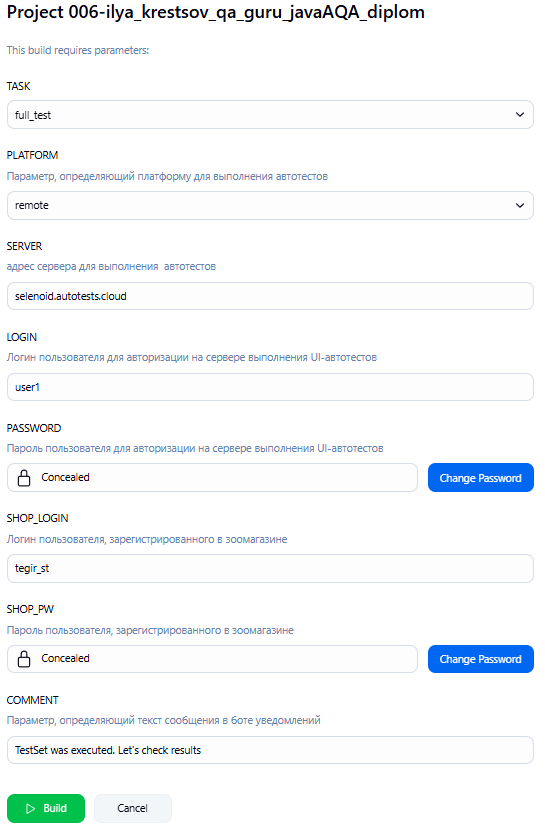
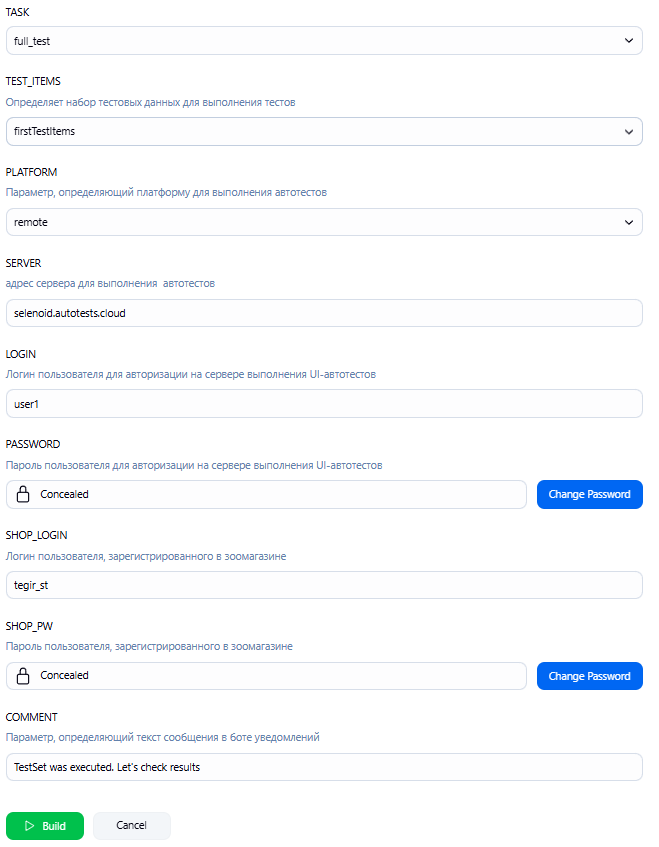
Autoformat new method putItemToCart with quantity new way to assert for quantity in cart version in configs small corrections in README

diff --git a/src/test/java/uitests/UIBaseTest.java b/src/test/java/uitests/UIBaseTest.java
@@ -31,7 +31,7 @@ public class UIBaseTest {
 
         Configuration.browser = config.getBrowserName();
         System.out.println(config.getBrowserName());
-        //Configuration.browserVersion = config.getBrowserVersion();
+        Configuration.browserVersion = config.getBrowserVersion();
         Configuration.browserSize = config.getBrowserSize();
         Configuration.remote = config.getServerAddress();
 
@@ -44,9 +44,9 @@ public class UIBaseTest {
 
 
         AuthDataModel authDataModel = new AuthDataModel(Map.of(
-                "login",config.getShopLogin(),
-                "password",config.getShopPassword(),
-                "from_page","/"
+                "login", config.getShopLogin(),
+                "password", config.getShopPassword(),
+                "from_page", "/"
         ));
 
         AuthDataStorage.getInstance();

diff --git a/src/test/java/uitests/UITests.java b/src/test/java/uitests/UITests.java
@@ -45,15 +45,15 @@ public class UITests extends UIBaseTest {
     @Test
     @Tag("CartTests")
     public void addingTwoItemsToCartMustDisplayNumberOfItemsInCartTest() {
+        int quantity = (int) (Math.random() * 2) + 2;
 
         apiClient.receiveCookies(AuthDataStorage.getAuthDataContainer());
 
         apiCart.prepareCart()
-                .putItemToCart(TestDataStorage.getItemCartPrimaryId())
-                .putItemToCart(TestDataStorage.getItemCartPrimaryId());
+                .putItemToCart(TestDataStorage.getItemCartPrimaryId(), quantity);
 
         cartPage.openCartPageWithAuthorizedUser(CookieStorage.getCookies())
-                .checkFirstItemQuantity();
+                .checkFirstItemQuantity(quantity);
 
         apiCart.prepareCart();
     }

diff --git a/src/test/java/uiapisteps/CartAPISteps.java b/src/test/java/uiapisteps/CartAPISteps.java
@@ -26,6 +26,13 @@ public class CartAPISteps {
     }
 
     @Step("Добавить товар в корзину")
+    public CartAPISteps putItemToCart(String item, int quantity) {
+        for (int i = 0; i < quantity; i++) putItemToCart(item);
+
+        return this;
+    }
+
+    @Step("Добавить товар в корзину")
     public CartAPISteps putItemToCart(String item) {
         response = given(requestNoContentSpec)
                 .cookies(CookieStorage.getCookies())

diff --git a/src/test/java/pages/CartPage.java b/src/test/java/pages/CartPage.java
@@ -47,9 +47,9 @@ public class CartPage {
     }
 
     @Step("Проверить количество добавленного в корзину товара")
-    public CartPage checkFirstItemQuantity() {
+    public CartPage checkFirstItemQuantity(Integer quantity) {
 
-        orderTableFirstRow.$$("td").findBy(text("2")).shouldBe();
+        orderTableFirstRow.$$("td").get(1).shouldHave(text(quantity.toString()));
 
         return this;
     }

diff --git a/src/test/java/helpers/Attach.java b/src/test/java/helpers/Attach.java
@@ -44,7 +44,7 @@ public class Attach {
     }
 
     public static URL getVideoUrl() {
-        String videoUrl =System.getProperty("vserver") + sessionId() + ".mp4";
+        String videoUrl = System.getProperty("vserver") + sessionId() + ".mp4";
         try {
             return new URL(videoUrl);
         } catch (MalformedURLException e) {

diff --git a/src/test/java/config/LaunchConfig.java b/src/test/java/config/LaunchConfig.java
@@ -15,6 +15,9 @@ public interface LaunchConfig extends Config {
     @Key("browser.name")
     String getBrowserName();
 
+    @Key("browser.version")
+    String getBrowserVersion();
+
     @Key("browser.size")
     String getBrowserSize();
 

diff --git a/README.md b/README.md
@@ -59,11 +59,12 @@
 Автотесты запускаются сборкой в <code>Jenkins</code> с заполнением параметров выполнения
 
 <p>
-<img src="media/jenkinsBuildOptions.png" height="830" width="545" style="background: #FFFFFF" alt="jenkins_build_parameters">
+<img src="media/jenkinsBuildOptions.png" style="background: #FFFFFF" alt="jenkins_build_parameters">
 </p>  
 
 - **TASK** - Параметр, определяющий набор тестов для запуска
-- **PLATFORM** - Платформа для выполнения автотестов
+- **TEST_ITEMS** - Параметр, определяющий набор тестовых данных, используемых при выполнении тестов
+- **PLATFORM** - Платформа для выполнения тестов
 - **SERVER** - Адрес сервера выполнения тестов
 - **LOGIN** - Логин для доступа к серверу выполнения тестов
 - **PASSWORD** - пароль для доступа к серверу выполнения тестов
